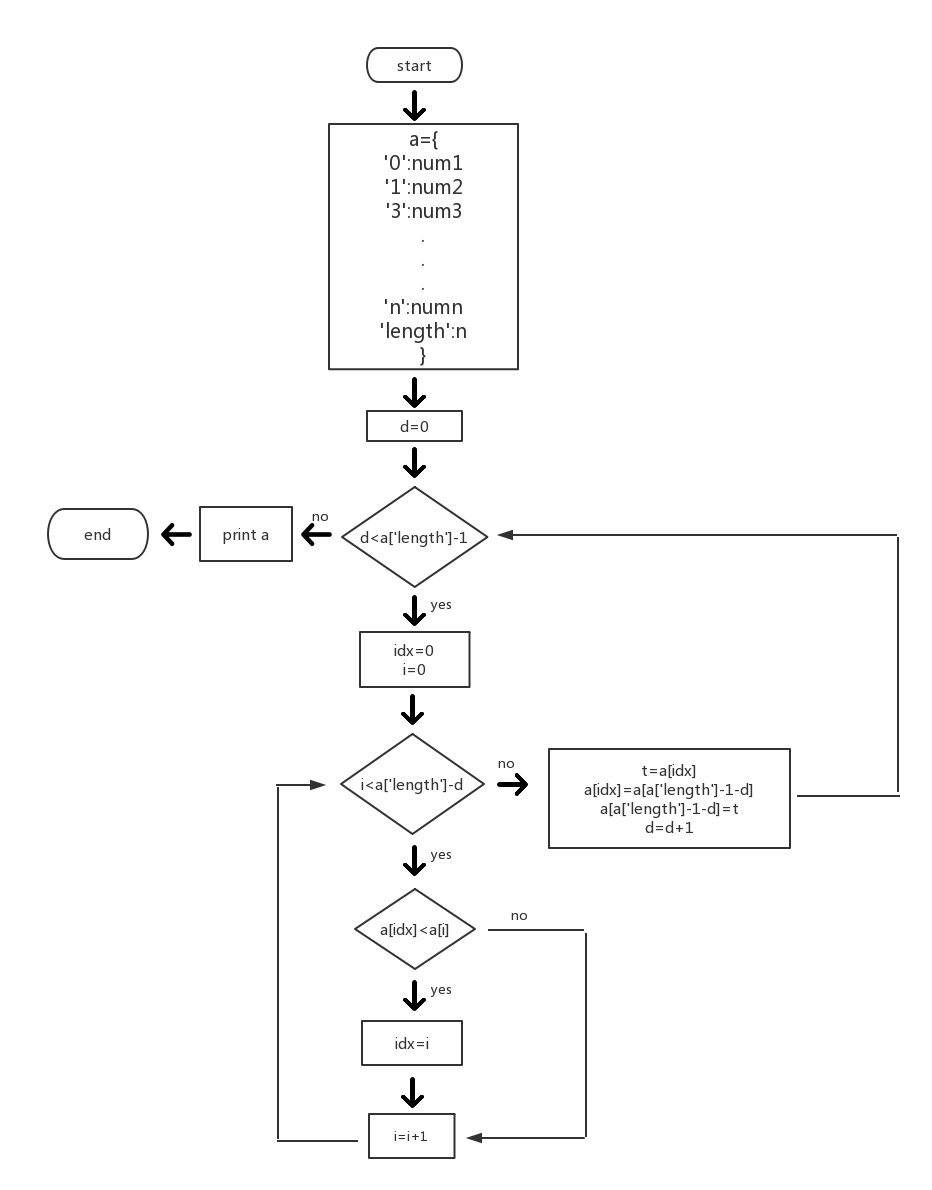
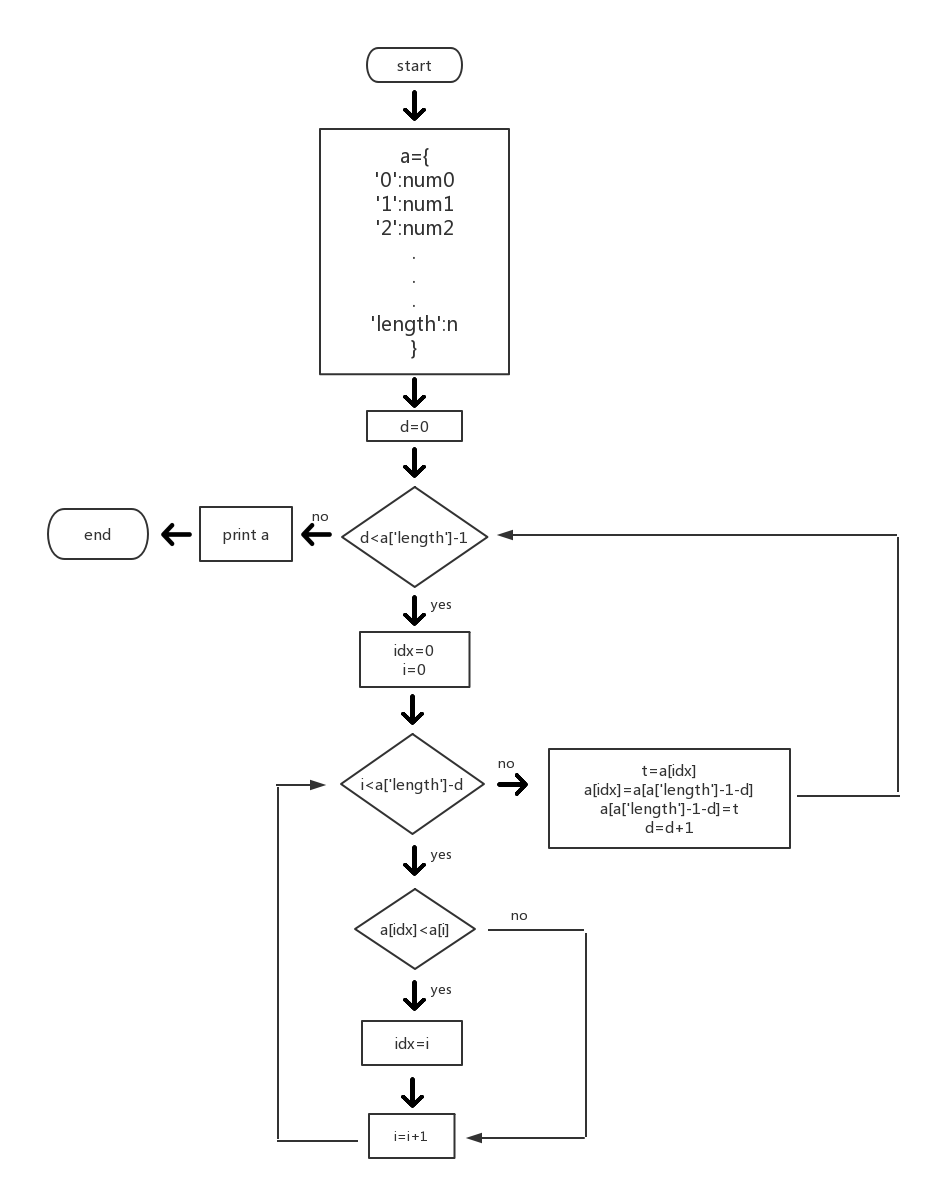
my blog

Changed region(s): [[0.3423, 0.0933, 0.5601, 0.342]]

diff --git a/2018/05/15/idx13/index.html b/2018/05/15/idx13/index.html
@@ -88,13 +88,14 @@
 <meta property="og:description" content="1. 冒泡排序算法请看原理图，相信你一看就懂，给它取个昵称‘两两摸头算法’。下面是伪代码流程图 2. 选择排序算法挑出一组中最大的放最后，或最小的放最前，余下的数字又组成一组继续选出最大或最小放在相应的位置，重复这个过程，直到余下最后一个数，那就已经OVER啦。请看原理图，相信你一看就懂。下面是伪代码流程图 3. 插入排序算法这个算法也叫起扑克牌算法，每次从队列中挑出一个数放入一个新的数组，放入之">
 <meta property="og:locale" content="zh-Hans">
 <meta property="og:image" content="http://yoursite.com/2018/05/15/idx13/bub.gif">
-<meta property="og:image" content="http://yoursite.com/2018/05/15/idx13/pic.png">
+<meta property="og:image" content="http://yoursite.com/2018/05/15/idx13/bubflow.png">
 <meta property="og:image" content="http://yoursite.com/2018/05/15/idx13/sel.gif">
 <meta property="og:image" content="http://yoursite.com/2018/05/15/idx13/selflow.png">
 <meta property="og:image" content="http://yoursite.com/2018/05/15/idx13/ins.gif">
 <meta property="og:image" content="http://yoursite.com/2018/05/15/idx13/qui.gif">
 <meta property="og:image" content="http://yoursite.com/2018/05/15/idx13/red.gif">
-<meta property="og:updated_time" content="2018-05-15T16:17:03.270Z">
+<meta property="og:image" content="http://yoursite.com/2018/05/15/idx13/coutflow.png">
+<meta property="og:updated_time" content="2018-05-16T06:51:01.036Z">
 <meta name="twitter:card" content="summary">
 <meta name="twitter:title" content="常见的排序算法">
 <meta name="twitter:description" content="1. 冒泡排序算法请看原理图，相信你一看就懂，给它取个昵称‘两两摸头算法’。下面是伪代码流程图 2. 选择排序算法挑出一组中最大的放最后，或最小的放最前，余下的数字又组成一组继续选出最大或最小放在相应的位置，重复这个过程，直到余下最后一个数，那就已经OVER啦。请看原理图，相信你一看就懂。下面是伪代码流程图 3. 插入排序算法这个算法也叫起扑克牌算法，每次从队列中挑出一个数放入一个新的数组，放入之">
@@ -323,11 +324,13 @@
       
 
       
-        <h3 id="1-冒泡排序算法"><a href="#1-冒泡排序算法" class="headerlink" title="1. 冒泡排序算法"></a>1. 冒泡排序算法</h3><p>请看原理图，相信你一看就懂，给它取个昵称‘两两摸头算法’。<br><img src="/2018/05/15/idx13/bub.gif" alt=""><br>下面是伪代码流程图<br><img src="/2018/05/15/idx13/pic.png" alt=""></p>
+        <h3 id="1-冒泡排序算法"><a href="#1-冒泡排序算法" class="headerlink" title="1. 冒泡排序算法"></a>1. 冒泡排序算法</h3><p>请看原理图，相信你一看就懂，给它取个昵称‘两两摸头算法’。<br><img src="/2018/05/15/idx13/bub.gif" alt=""><br>下面是伪代码流程图<br><img src="/2018/05/15/idx13/bubflow.png" alt=""></p>
 <h3 id="2-选择排序算法"><a href="#2-选择排序算法" class="headerlink" title="2. 选择排序算法"></a>2. 选择排序算法</h3><p>挑出一组中最大的放最后，或最小的放最前，余下的数字又组成一组继续选出最大或最小放在相应的位置，重复这个过程，直到余下最后一个数，那就已经OVER啦。<br>请看原理图，相信你一看就懂。<br><img src="/2018/05/15/idx13/sel.gif" alt=""><br>下面是伪代码流程图<br><img src="/2018/05/15/idx13/selflow.png" alt=""></p>
 <h3 id="3-插入排序算法"><a href="#3-插入排序算法" class="headerlink" title="3. 插入排序算法"></a>3. 插入排序算法</h3><p>这个算法也叫起扑克牌算法，每次从队列中挑出一个数放入一个新的数组，放入之前需要和最后一个数比较，如果比它大，直接放最后，比它小，继续和前一个数比较，直到这个数的前面没有比它更大的数为止。请看原理图，相信你一看就懂。<br><img src="/2018/05/15/idx13/ins.gif" alt=""></p>
 <h3 id="4-快速排序算"><a href="#4-快速排序算" class="headerlink" title="4. 快速排序算"></a>4. 快速排序算</h3><p>从队列中选出一个数作为分界点，余下的数依次和它比较，比它大的放右边，比它小的放左边，这样就形成了左右两个独立的队列，并且作为分界点的数的位置已被固定了。再从左右两边分别选出一个数作为分界点，左边的队列和右边的队列作为独立的队列重复这个比较以及放置过程，最终独立队列的长度越来越小，位置确定的数字越来越多，直至所有数字的位置都被确定。由于每次确定独立队列之后，比较的次数都会减少很多，所以这个算法叫做快速排序算法。当按顺序选择分界点，比如从左往右依次选择，很可能出现所有数字分布在分界点的一边打额情况，为了尽可能<br>减少这个几率，可以选择随机快速排序，即选择分界点是随机的。<br>请看原理图，相信你一看就懂。<br><img src="/2018/05/15/idx13/qui.gif" alt=""></p>
 <h3 id="5-基数排序算法"><a href="#5-基数排序算法" class="headerlink" title="5. 基数排序算法"></a>5. 基数排序算法</h3><p>将所有可能出现的数字依次排序，每个可能出现数字所在的位置作为一个数字容器，如果队列中出现了这个数字，就把这个数字放在相应的容器中。最后按照可能出现数字的排列顺序，依次从每个容器中取出数字，那么排序自然就已经OVER啦。这个算法由于不需要比较，所以会很快，但是设立数字容器可能会消耗很多的内存，数字较少的时候使用还是很OK的。请看原理图，相信你一看就懂。<br><img src="/2018/05/15/idx13/red.gif" alt=""></p>
+<h3 id="6-计数排序算法"><a href="#6-计数排序算法" class="headerlink" title="6. 计数排序算法"></a>6. 计数排序算法</h3><p>计数排序是通过基于哈希的算法，将在队列中出现过的数字进行计数，组成一个由（数字：计数）作为键值对的新数组，之后对新组成的数组从零一直遍历到队列中数字的最大值，将存在的数字按照计数的个数依次放入另外一个数组中，遍历完成以后，新的数组就是最终的排序结果。伪代码流程图如下：<br><img src="/2018/05/15/idx13/coutflow.png" alt=""></p>
+<h3 id="7-堆排序算法"><a href="#7-堆排序算法" class="headerlink" title="7. 堆排序算法"></a>7. 堆排序算法</h3><p>每一个数组都可以写成完全二叉树的格式，而当二叉树中每一个父节点都比其子节点大时，就形成了最大堆，最大堆中的根节点是数组中的最大值。将根节点与叶子节点最右边的节点替换，并将替换后的最右叶子结点从堆中剔除，而后对堆进行重排重新形成最大堆，重复这一过程，每次都能选出剩余数组中的最大值，当剩余堆中元素只剩下一个时，排序也就自然完成了。</p>
 
       
     </div>
@@ -493,7 +496,7 @@
             
 
             
-              <div class="post-toc-content"><ol class="nav"><li class="nav-item nav-level-3"><a class="nav-link" href="#1-冒泡排序算法"><span class="nav-number">1.</span> <span class="nav-text">1. 冒泡排序算法</span></a></li><li class="nav-item nav-level-3"><a class="nav-link" href="#2-选择排序算法"><span class="nav-number">2.</span> <span class="nav-text">2. 选择排序算法</span></a></li><li class="nav-item nav-level-3"><a class="nav-link" href="#3-插入排序算法"><span class="nav-number">3.</span> <span class="nav-text">3. 插入排序算法</span></a></li><li class="nav-item nav-level-3"><a class="nav-link" href="#4-快速排序算"><span class="nav-number">4.</span> <span class="nav-text">4. 快速排序算</span></a></li><li class="nav-item nav-level-3"><a class="nav-link" href="#5-基数排序算法"><span class="nav-number">5.</span> <span class="nav-text">5. 基数排序算法</span></a></li></ol></div>
+              <div class="post-toc-content"><ol class="nav"><li class="nav-item nav-level-3"><a class="nav-link" href="#1-冒泡排序算法"><span class="nav-number">1.</span> <span class="nav-text">1. 冒泡排序算法</span></a></li><li class="nav-item nav-level-3"><a class="nav-link" href="#2-选择排序算法"><span class="nav-number">2.</span> <span class="nav-text">2. 选择排序算法</span></a></li><li class="nav-item nav-level-3"><a class="nav-link" href="#3-插入排序算法"><span class="nav-number">3.</span> <span class="nav-text">3. 插入排序算法</span></a></li><li class="nav-item nav-level-3"><a class="nav-link" href="#4-快速排序算"><span class="nav-number">4.</span> <span class="nav-text">4. 快速排序算</span></a></li><li class="nav-item nav-level-3"><a class="nav-link" href="#5-基数排序算法"><span class="nav-number">5.</span> <span class="nav-text">5. 基数排序算法</span></a></li><li class="nav-item nav-level-3"><a class="nav-link" href="#6-计数排序算法"><span class="nav-number">6.</span> <span class="nav-text">6. 计数排序算法</span></a></li><li class="nav-item nav-level-3"><a class="nav-link" href="#7-堆排序算法"><span class="nav-number">7.</span> <span class="nav-text">7. 堆排序算法</span></a></li></ol></div>
             
 
           </div>

diff --git a/index.html b/index.html
@@ -310,11 +310,13 @@
       
         
           
-            <h3 id="1-冒泡排序算法"><a href="#1-冒泡排序算法" class="headerlink" title="1. 冒泡排序算法"></a>1. 冒泡排序算法</h3><p>请看原理图，相信你一看就懂，给它取个昵称‘两两摸头算法’。<br><img src="/2018/05/15/idx13/bub.gif" alt=""><br>下面是伪代码流程图<br><img src="/2018/05/15/idx13/pic.png" alt=""></p>
+            <h3 id="1-冒泡排序算法"><a href="#1-冒泡排序算法" class="headerlink" title="1. 冒泡排序算法"></a>1. 冒泡排序算法</h3><p>请看原理图，相信你一看就懂，给它取个昵称‘两两摸头算法’。<br><img src="/2018/05/15/idx13/bub.gif" alt=""><br>下面是伪代码流程图<br><img src="/2018/05/15/idx13/bubflow.png" alt=""></p>
 <h3 id="2-选择排序算法"><a href="#2-选择排序算法" class="headerlink" title="2. 选择排序算法"></a>2. 选择排序算法</h3><p>挑出一组中最大的放最后，或最小的放最前，余下的数字又组成一组继续选出最大或最小放在相应的位置，重复这个过程，直到余下最后一个数，那就已经OVER啦。<br>请看原理图，相信你一看就懂。<br><img src="/2018/05/15/idx13/sel.gif" alt=""><br>下面是伪代码流程图<br><img src="/2018/05/15/idx13/selflow.png" alt=""></p>
 <h3 id="3-插入排序算法"><a href="#3-插入排序算法" class="headerlink" title="3. 插入排序算法"></a>3. 插入排序算法</h3><p>这个算法也叫起扑克牌算法，每次从队列中挑出一个数放入一个新的数组，放入之前需要和最后一个数比较，如果比它大，直接放最后，比它小，继续和前一个数比较，直到这个数的前面没有比它更大的数为止。请看原理图，相信你一看就懂。<br><img src="/2018/05/15/idx13/ins.gif" alt=""></p>
 <h3 id="4-快速排序算"><a href="#4-快速排序算" class="headerlink" title="4. 快速排序算"></a>4. 快速排序算</h3><p>从队列中选出一个数作为分界点，余下的数依次和它比较，比它大的放右边，比它小的放左边，这样就形成了左右两个独立的队列，并且作为分界点的数的位置已被固定了。再从左右两边分别选出一个数作为分界点，左边的队列和右边的队列作为独立的队列重复这个比较以及放置过程，最终独立队列的长度越来越小，位置确定的数字越来越多，直至所有数字的位置都被确定。由于每次确定独立队列之后，比较的次数都会减少很多，所以这个算法叫做快速排序算法。当按顺序选择分界点，比如从左往右依次选择，很可能出现所有数字分布在分界点的一边打额情况，为了尽可能<br>减少这个几率，可以选择随机快速排序，即选择分界点是随机的。<br>请看原理图，相信你一看就懂。<br><img src="/2018/05/15/idx13/qui.gif" alt=""></p>
 <h3 id="5-基数排序算法"><a href="#5-基数排序算法" class="headerlink" title="5. 基数排序算法"></a>5. 基数排序算法</h3><p>将所有可能出现的数字依次排序，每个可能出现数字所在的位置作为一个数字容器，如果队列中出现了这个数字，就把这个数字放在相应的容器中。最后按照可能出现数字的排列顺序，依次从每个容器中取出数字，那么排序自然就已经OVER啦。这个算法由于不需要比较，所以会很快，但是设立数字容器可能会消耗很多的内存，数字较少的时候使用还是很OK的。请看原理图，相信你一看就懂。<br><img src="/2018/05/15/idx13/red.gif" alt=""></p>
+<h3 id="6-计数排序算法"><a href="#6-计数排序算法" class="headerlink" title="6. 计数排序算法"></a>6. 计数排序算法</h3><p>计数排序是通过基于哈希的算法，将在队列中出现过的数字进行计数，组成一个由（数字：计数）作为键值对的新数组，之后对新组成的数组从零一直遍历到队列中数字的最大值，将存在的数字按照计数的个数依次放入另外一个数组中，遍历完成以后，新的数组就是最终的排序结果。伪代码流程图如下：<br><img src="/2018/05/15/idx13/coutflow.png" alt=""></p>
+<h3 id="7-堆排序算法"><a href="#7-堆排序算法" class="headerlink" title="7. 堆排序算法"></a>7. 堆排序算法</h3><p>每一个数组都可以写成完全二叉树的格式，而当二叉树中每一个父节点都比其子节点大时，就形成了最大堆，最大堆中的根节点是数组中的最大值。将根节点与叶子节点最右边的节点替换，并将替换后的最右叶子结点从堆中剔除，而后对堆进行重排重新形成最大堆，重复这一过程，每次都能选出剩余数组中的最大值，当剩余堆中元素只剩下一个时，排序也就自然完成了。</p>
 
           
         

diff --git a/css/main.css b/css/main.css
@@ -1823,7 +1823,7 @@ pre .javascript .function {
   width: 4px;
   height: 4px;
   border-radius: 50%;
-  background: #d7a796;
+  background: #14b5c8;
 }
 .links-of-blogroll {
   font-size: 13px;
